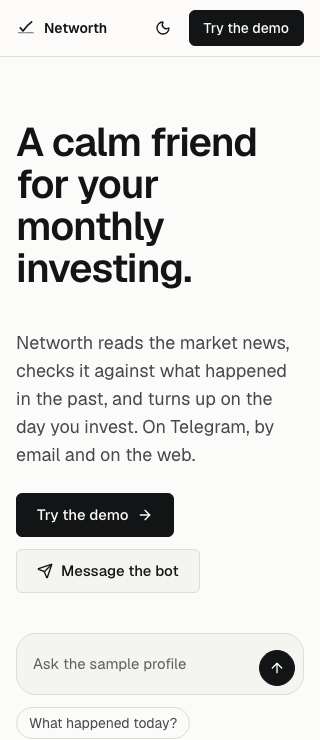
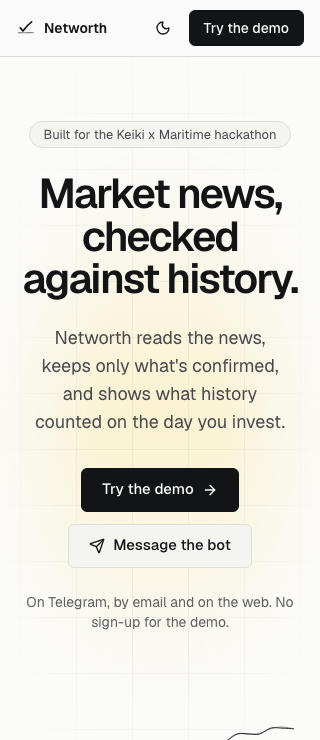
docs: add the landing redo's critique, checks and screenshots to the phase 10 report

diff --git a/.claude/CHANGELOG.md b/.claude/CHANGELOG.md
@@ -297,7 +297,6 @@
 
 ## 2026-10-25 — Phase 6 report v2
 - Report updated for method v2: sources with the OECD splices and rejected ids, window 2007-10..2026-09 (228 months), v1 vs v2 table, new sample and guard-checked lines, label size check, gate counts.
-||||||| parent of 19df1a7 (feat: verify Keiki turn signatures with Ed25519 or HMAC)
 
 ## 2026-10-25 — Verify Keiki turn signatures
 - networth/keiki/verify.py trusts a pushed turn only on a valid Ed25519 signature (Keiki's JWKS, refetched at most once a minute on an unknown kid) or, when KEIKI_SIGNING_SECRET is set, a valid HMAC; stale (over 5 minutes), unsigned and unknown-kid requests get a reason. Adds the cryptography dependency (Phase 3C unit 1).
@@ -325,7 +324,6 @@
 
 ## 2026-10-25 — Deploy doc: Keiki
 - docs/deploy.md gains the Keiki section: resource ids, how to recreate them in a safe order, the KEIKI_* env var names, how turns are trusted, and how to rotate the HMAC secret and the API key.
-||||||| parent of 72ac779 (docs: fix the phase 5 eval plan before any result, with the walk-forward and vault runners)
 
 ## 2026-10-25 — Phase 5 plan and walk-forward harness
 - docs/phases/phase-5-plan.md fixes every eval choice before any result; evals/walkforward.py rebuilds base rates at a cutoff from the engine's public build steps; evals/vault.py scores the vault once; evals/news/LABELLING.md sets the news label rules; tests/test_evals.py covers the scoring rules.
@@ -345,7 +343,6 @@
 
 ## 2026-10-25 — Cite the rebased plan hash
 - docs/phases/phase-5-report.md: the plan commit was rewritten by the pre-push rebase; the report now cites both hashes and the unchanged file blob.
-||||||| parent of 52cb417 (fix: quote a short headline that holds the asked term in the memory line)
 
 ## 2026-10-25 — Memory line quotes a title that holds the term
 - networth/memory.py: the brief's memory line quotes the shortest confirmed story or article title that contains the asked term (at most 140 characters), not the story's own title, so the reader sees the term in the headline.
@@ -365,7 +362,6 @@
 
 ## 2026-10-25 — Phase 3D eval rerun and report
 - evals/results: live words and news rerun after findings 1 to 4; evals/intent_results_heldout_3d.json held-out intent rerun with the new criteria. docs/phases/phase-5-report.md before-and-after section and spend $2.42; phase-5-findings.md status per finding; phase-3b-report.md and phase-3b-decisions.tsv record Jev back on; docs/phases/phase-3d-report.md.
-||||||| parent of da2ecbf (docs: add the Slack setup and the phase 3C report)
 
 ## 2026-10-25 — Phase 3C: clean turn log, trace id, welcome kind, Slack route, report
 - The turn log kept Keiki's whole channel object (sender address and email text). It now keeps only the channel type; the fixture sends the object as Keiki does and the log test checks no address or text.
@@ -446,7 +442,6 @@
 
 ## 2026-10-25 — docs: drop the fixed push-access item from the 7B report
 - The 403 on push was fixed on the remote side, so the OWNER NEEDED line for it is removed.
-||||||| parent of a6f8d85 (feat: add the phase 8 Next.js site with the ledger and chat cards)
 
 ## 2026-10-25 — feat: phase 8 web dashboard and chat
 - Added networth/web/api.py (JSON API for the site: dashboard and chat for /u tokens and the demo, guard, rate limits, CORS allowlist, length cap, text-free turn log), registered from routes.py with one import.
@@ -511,11 +506,6 @@
 
 ## 2026-10-25 — web chat 500: torn call log line
 - Live /api/demo/chat 500: line 76 of /data/llm_calls.jsonl is 403 NUL bytes (VM stopped mid-append during the Maritime outage); run_turn -> cost_between -> net.read_records raised JSONDecodeError on every web turn. read_records now strips NULs and skips unparseable lines with a warning. Tests: demo chat 200 with a torn log, read_records keeps whole records.
-||||||| parent of a31f04e (feat: make the web app a chat with the dashboard one click away)
-||||||| parent of 395ddb1 (feat: make the web app a chat with the dashboard one click away)
-||||||| parent of 4b3cde8 (feat: make the web app a chat with the dashboard one click away)
-||||||| parent of 338ea2d (feat: make the web app a chat with the dashboard one click away)
-||||||| parent of f904838 (feat: make the web app a chat with the dashboard one click away)
 
 ## 2026-10-25 — Phase 10 slice 1: the chat-first web app
 - site/: centred chat home for /demo and /u/[token], sidebar with past chats kept in the browser, @ mentions and / commands, Vercel-black theme with Geist and a light theme, one card per server card type, designed thinking, error, unreachable, missing, rate-limited and over-length states.
@@ -548,3 +538,7 @@
 
 ## 2026-10-25 — holdings: small-cap and US tech ETF tickers are growth
 - TICKER_RULES growth now matches SML (HDFCSML250), MON100 and FANG (MAFANG). Tests added.
+
+## 2026-10-25 — Phase 10: the landing page, redone Maritime-style
+- site/app/page.tsx, app/landing.css, components/landing/{hero-sketch,step-icons,mocks,playback,in-view}.tsx, lib/pencil.ts: `/` rebuilt from scratch as one centred column with the hackathon pill, a self-drawing pencil hero, three self-drawing steps and five product mocks (the LIC IPO chat, the monthly brief, the range chart, an email reply and the dashboard sheet), plus the letter, the line we never cross and the FAQ; the old ask box (components/landing/ask.tsx) is removed.
+- site/e2e/landing.spec.ts: tests for the new page (centring, mock playback, reduced motion, the server's brief, the letter); docs/phases/phase-10-report.md: before/after critique, gates and LCP.

diff --git a/docs/phases/phase-10-web-redesign.md b/docs/phases/phase-10-web-redesign.md
@@ -80,3 +80,19 @@ The owner: "I hope our website has a good GTM page as well."
 | **Copy** | Calm, specific, no hype words, no exclamation marks, no promises of returns, no testimonials or numbers we cannot back. Every figure on the page comes from our server or our eval results. |
 | **Reference skill** | Read `landing-page-design/SKILL.md` in https://github.com/elayadesign/ai-design-skills (fetch it with `tinyfish fetch content get`; do not install or run anything from it) for structure, conversion copy and the visual system. This brief and PRODUCT.md win where they conflict. Also read supahero.io, cta.gallery and navbar.gallery from the list above. |
 | **Done when (add)** | `/` on the preview loads in under 2.5 s LCP on a throttled mobile Lighthouse run, has both CTAs working, passes the banned-word grep, and has screenshots at 320 and 1440 px, dark and light, in `docs/phases/phase-10-shots/`. |
+
+## Added by the owner (2026-10-25, later): the landing page, redone
+
+The owner: "A very bad GTM once again. Improvise it, use all the design skills. I want it to look exactly like Vercel, and centred. A little motion, SVG animation. See how heyclicky.com centres its content and how well it's made."
+
+| What | Details |
+|---|---|
+| **Skills, in order** | `impeccable` (shape, then critique and audit at the end), `design-taste-frontend`, `hallmark`, `emil-design-eng` (the polish details), `svg-animations` and `motion-design` for the motion. Run `impeccable` critique on the current `/` first and write down what is wrong before changing anything. |
+| **References, looked at in a browser, not guessed** | vercel.com home (black, Geist, the thin grid lines and hairlines, one soft glow behind the hero, centred headline, two buttons, dense small type) and https://www.heyclicky.com (one narrow centred column, a big calm wordmark and one-line promise, the CTAs right under it, a playful animated hero object, a short "the dream / notes" letter signed by the founder, simple cards, an FAQ accordion). Take ideas, copy no code or assets. |
+| **Layout** | One centred column, about 640 to 720 px for text, wider only for the hero visual. Everything is centred: the wordmark, the headline, the one-line promise, the CTAs ("Try the demo", "Message the bot"), section headings. Generous vertical rhythm, not uniform padding. No left-aligned hero with a side widget. |
+| **Hero** | A short headline in Vercel's voice and a one-line promise. Under the CTAs, one animated SVG built for Networth: a pencil line chart drawing itself (rough.js-style stroke, seeded), with a Telegram-style message bubble arriving beside it ("Months like this are why you have a plan."). It loops gently or plays once. It stops under `prefers-reduced-motion`. |
+| **Sections, centred** | 1. How it works in three steps, each with a small hand-drawn SVG icon that draws on scroll into view. 2. A short "why we built this" note in the heyclicky letter style, written plainly: we read the news, keep only confirmed stories, and show what history counted, including our own negative result ("the counts did no better than chance out of sample, so we show them as history"). 3. "The line we never cross", as a short centred list. 4. A live sample from the demo data (one pencil chart, real server numbers). 5. FAQ as an accordion. 6. A footer with "Research, not advice". |
+| **Motion** | A little and purposeful: the hero draw, fade-and-rise on scroll (opacity and transform only), button hover and press states, the accordion. Nothing bounces, nothing loops loudly. Respect reduced motion. |
+| **Copy** | Calm, specific, no hype words, no exclamation marks, no returns promised, no invented numbers. Keep the existing banned-word grep green. |
+| **Done when (add)** | Screenshots at 320 and 1440 px, dark and light, of the new `/`. The `impeccable` critique before and after is in the report. LCP stays under 2.5 s, and the page passes the banned-word grep. The coordinator checks it centred and calm on the preview before any push. |
+| **Primary reference (owner, latest)** | "Take full inspiration from Maritime." https://maritime.sh is now the main model, ahead of heyclicky and vercel.com. Study it in a browser. Its shape: a small "Backed by" pill above a centred headline ("Host persistent agents on the cloud."), one short line under it, two buttons ("Start free", "Book a demo"), a quiet logo row, then big bold section headings, each followed by a live product mock built in HTML and SVG and animated like the real thing: a file tree, a chat that types its messages, a calendar, a terminal running commands, a rendered PDF. For Networth, build the same kind of mocks from our real product: a Telegram chat with the bot whose messages arrive one by one (the IPO question, then "what should I read first?", then the Hinglish answer, using our real reply text); the monthly brief card; a pencil chart drawing itself from demo data; an email reply; the dashboard canvas. Each mock is a calm, looping, reduced-motion-safe animation. A small "Built for the Keiki x Maritime hackathon" pill replaces "Backed by". Copy no Maritime code or assets. |

diff --git a/docs/phases/phase-10-report.md b/docs/phases/phase-10-report.md
@@ -78,3 +78,79 @@ The first-visitor test is covered end to end: from `/`, "Try the demo" opens the
 
 - The landing page has no photographs. The brief asks that every figure come from the server, and stock pictures would be decoration, so the live product pieces are the imagery.
 - The design references' text-gradient hero and the taste skill's two-line headline rule both give way to the brief and the impeccable bans.
+
+## The landing page, redone
+
+The owner found the first landing page weak, so `/` was rebuilt from scratch. Maritime is the model, with Vercel's black and heyclicky's centred column as secondary references. All three were viewed in a browser at 1440. No code or assets were copied from them.
+
+### Critique before (impeccable, on the shipped `/`)
+
+Score 27/40. The AI slop verdict failed.
+
+- **No hero moment.** The hero was a left-aligned headline above a grid with a paragraph and an ask box. It had no visual, and nothing on the first screen showed the product.
+- **A widget instead of a promise.** The side ask box competed with the two buttons.
+- **A kicker above every heading.** "How it works", "Where it lives" and "Track record" sat as small labels above each h2: the repeated-label tell.
+- **Raw fragments.** The live dashboard pieces were set in plain boxes beside the step text. They read as parts of a dashboard, not as the product at work.
+- **An identical card row.** The channels section was three icon-plus-text cells of the same size.
+- **No motion,** except the charts drawing in.
+- **A flat rhythm.** Every section used the same padding and the same two-column split.
+
+The deterministic detector could not run (`detect.mjs`: bundled detector not found), so this is the model's assessment only.
+
+### What it is now
+
+- **Hero.**
+  - One centred column: the hackathon pill, then "Market news, checked against history.", one line under it, and "Try the demo" and "Message the bot".
+  - Under the buttons, a pencil line of monthly investing draws itself and falls. The brief's own line arrives beside the fall: "Months like this are why you have a plan."
+  - A faint grid and one soft glow sit behind it. The line is a shape with no figure on it.
+- **Three steps.** Each has a hand-drawn icon that draws stroke by stroke as it scrolls into view.
+- **Five product mocks, each under a big two-part heading:**
+  - **The Telegram chat.** It plays the phase 9 eval's LIC thread one message at a time, and the header says "typing…" before each reply. The thread runs from the question to "what should I read first?" and ends on the Hinglish answer, using the real reply text.
+  - **The monthly brief.** These are the server's brief lines (`networth/brief`), filled in from the sample profile's live dashboard data.
+  - **The pencil range chart.** It is drawn live from the demo data.
+  - **An email reply.** It uses the real repo-rate answer text.
+  - **The dashboard sheet.** It is the real plan, news and history components.
+- **The rest of the page:**
+  - a "why we built this" letter that states the negative result;
+  - "The line we never cross";
+  - the FAQ accordion;
+  - a footer with "Research, not advice."
+
+### Motion
+
+- **Entrances.** The hero draws once and doesn't loop. Blocks below the fold fade and rise once, 90 ms apart. They use opacity and transform only.
+- **The mocks** play only while on screen and loop after a six-second hold.
+- **Reduced motion** and no-script both show every mock's whole exchange at once. A block is held back only if it starts below the fold, so the first screen never flickers.
+- **New code:**
+  - `components/landing/playback.tsx` plays the mocks;
+  - `components/landing/in-view.tsx` runs the entrances;
+  - `lib/pencil.ts` draws the hand-drawn strokes on the server, seeded, with no script.
+
+### Critique after
+
+Score 34/40. The AI slop verdict passes.
+
+- **Fixed:**
+  - the hero now has one visual and one promise;
+  - every section shows the product doing the thing its heading says;
+  - the kicker labels and the identical card row are gone;
+  - the vertical rhythm varies by section.
+- **Still short:**
+  - the headline takes three lines at 320;
+  - the hero bubble is a little wider than its text on desktop;
+  - the brief mock shows the raw `^NSEI` ticker, because that is the server's sentence;
+  - the site has no photographs, by choice, as before.
+
+### Checks
+
+| Gate | Exit code | Result |
+| --- | --- | --- |
+| `make check` | 0 | 1194 passed, 12 skipped |
+| `npm run lint` | 0 | |
+| `npm run typecheck` | 0 | |
+| `npm run build` | 0 | clean `.next` |
+| `scripts/check-build.mjs` | 0 | banned-word grep green |
+| Playwright | 0 | 32 passed (9 on the landing page) |
+
+- **LCP.** Locally with 4x CPU throttling and 1.6 Mbps at 150 ms latency, LCP is 0.70 s at 390 and 0.75 s at 1440. The LCP element is the h1.
+- **Screenshots.** They are `phase-10-shots/landing-{320,1440}-{dark,light}.png` and `landing-full-*`.
